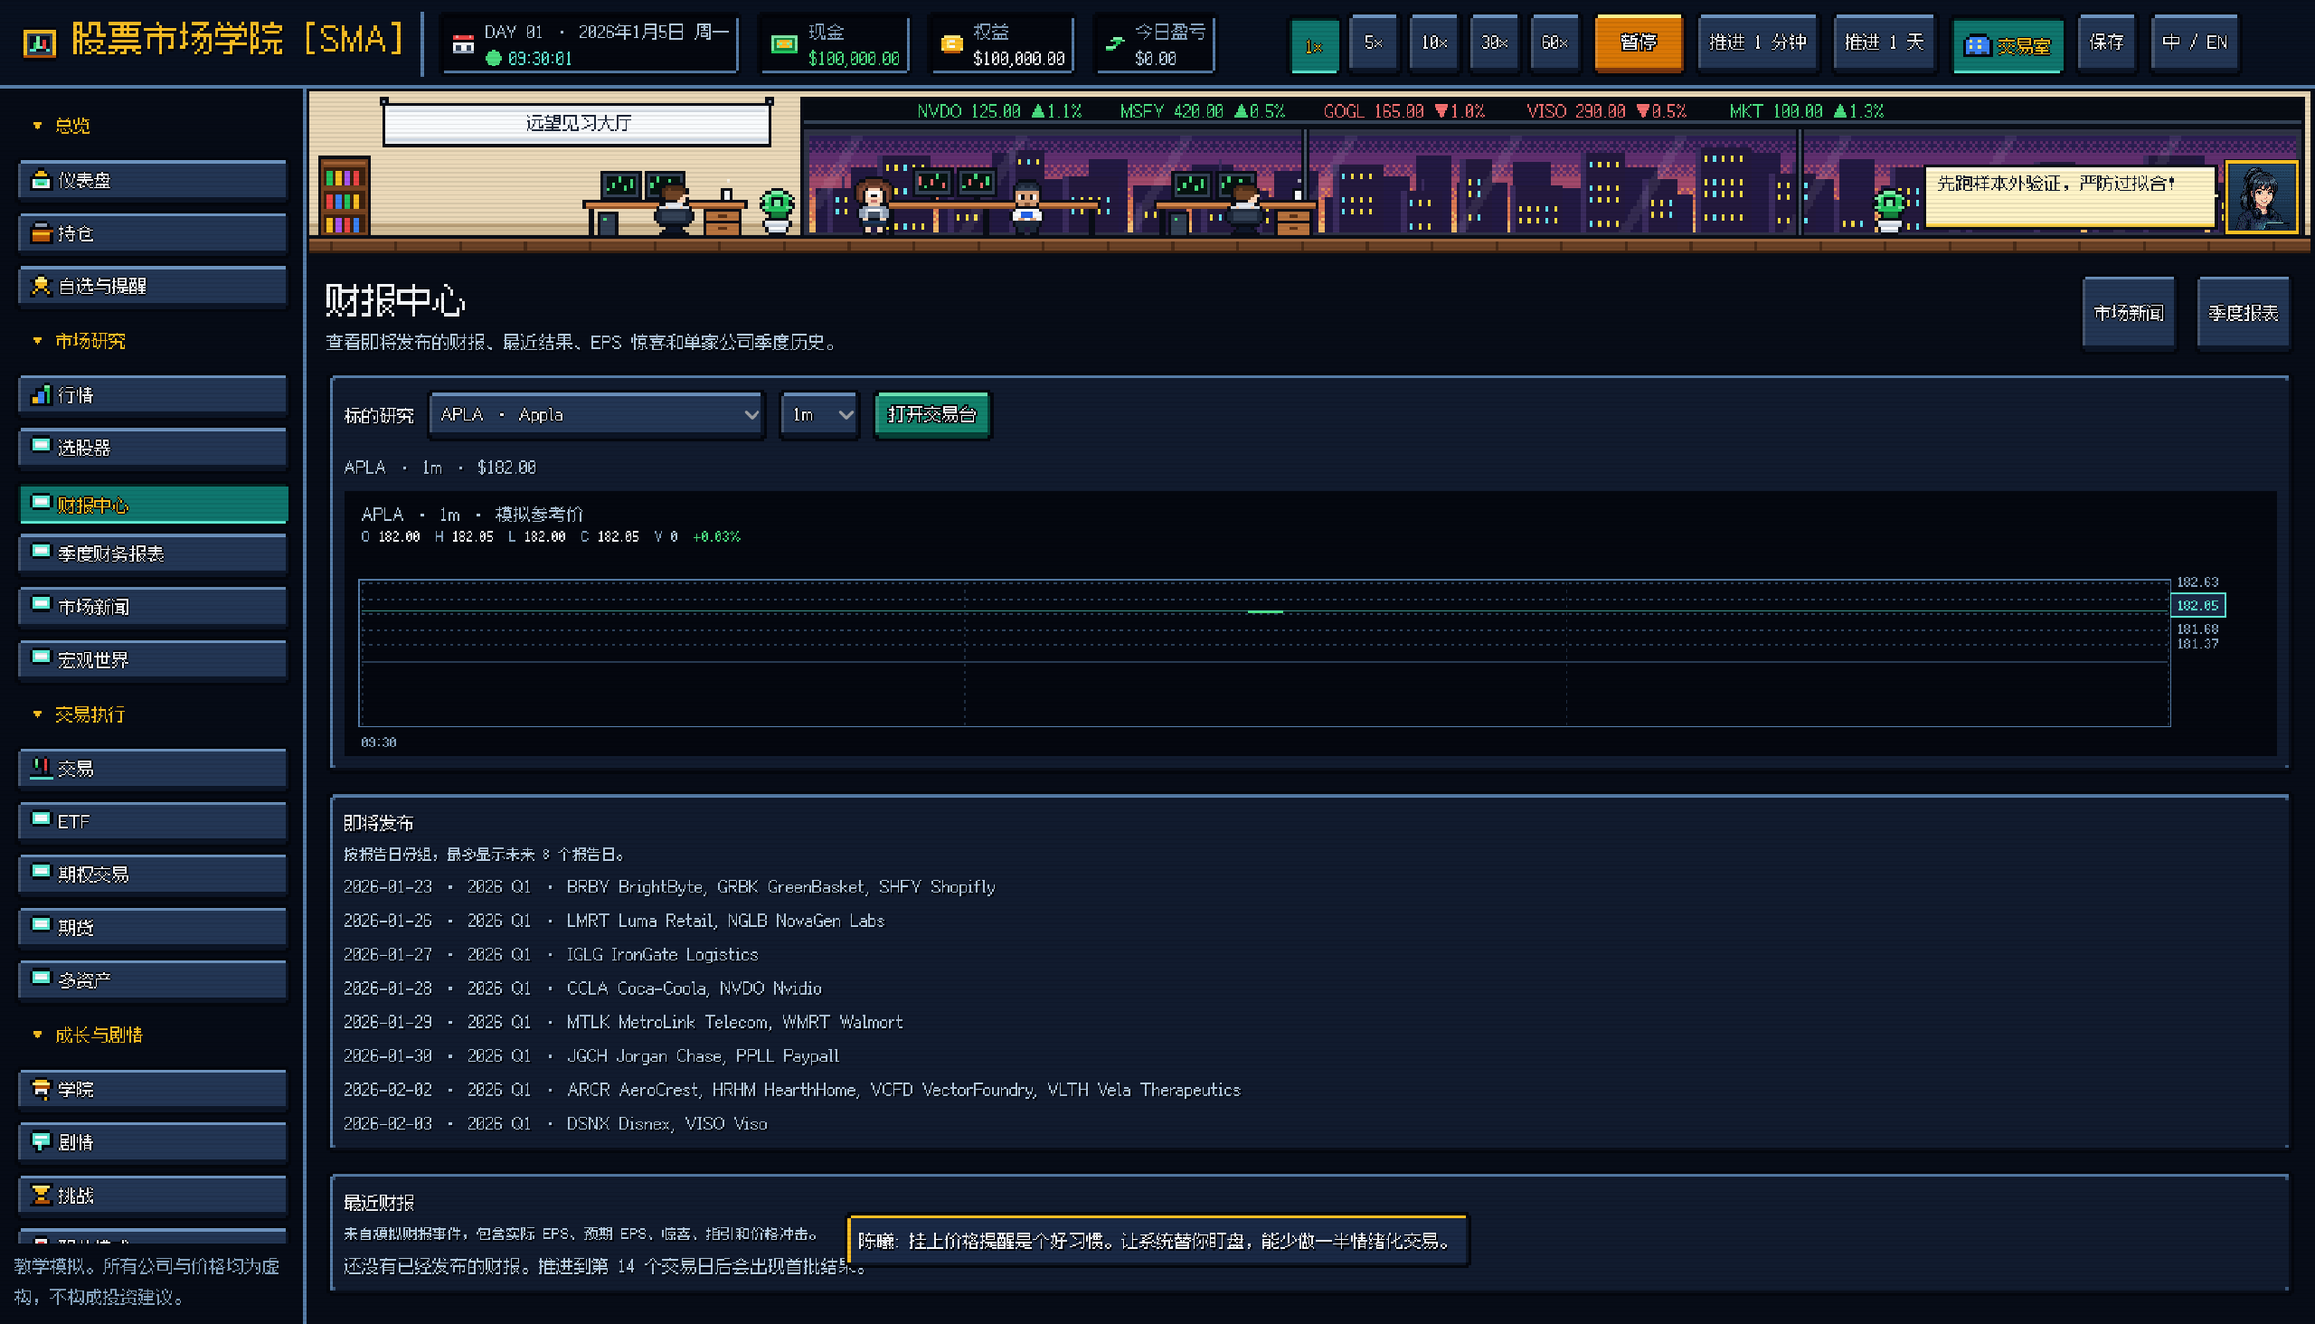
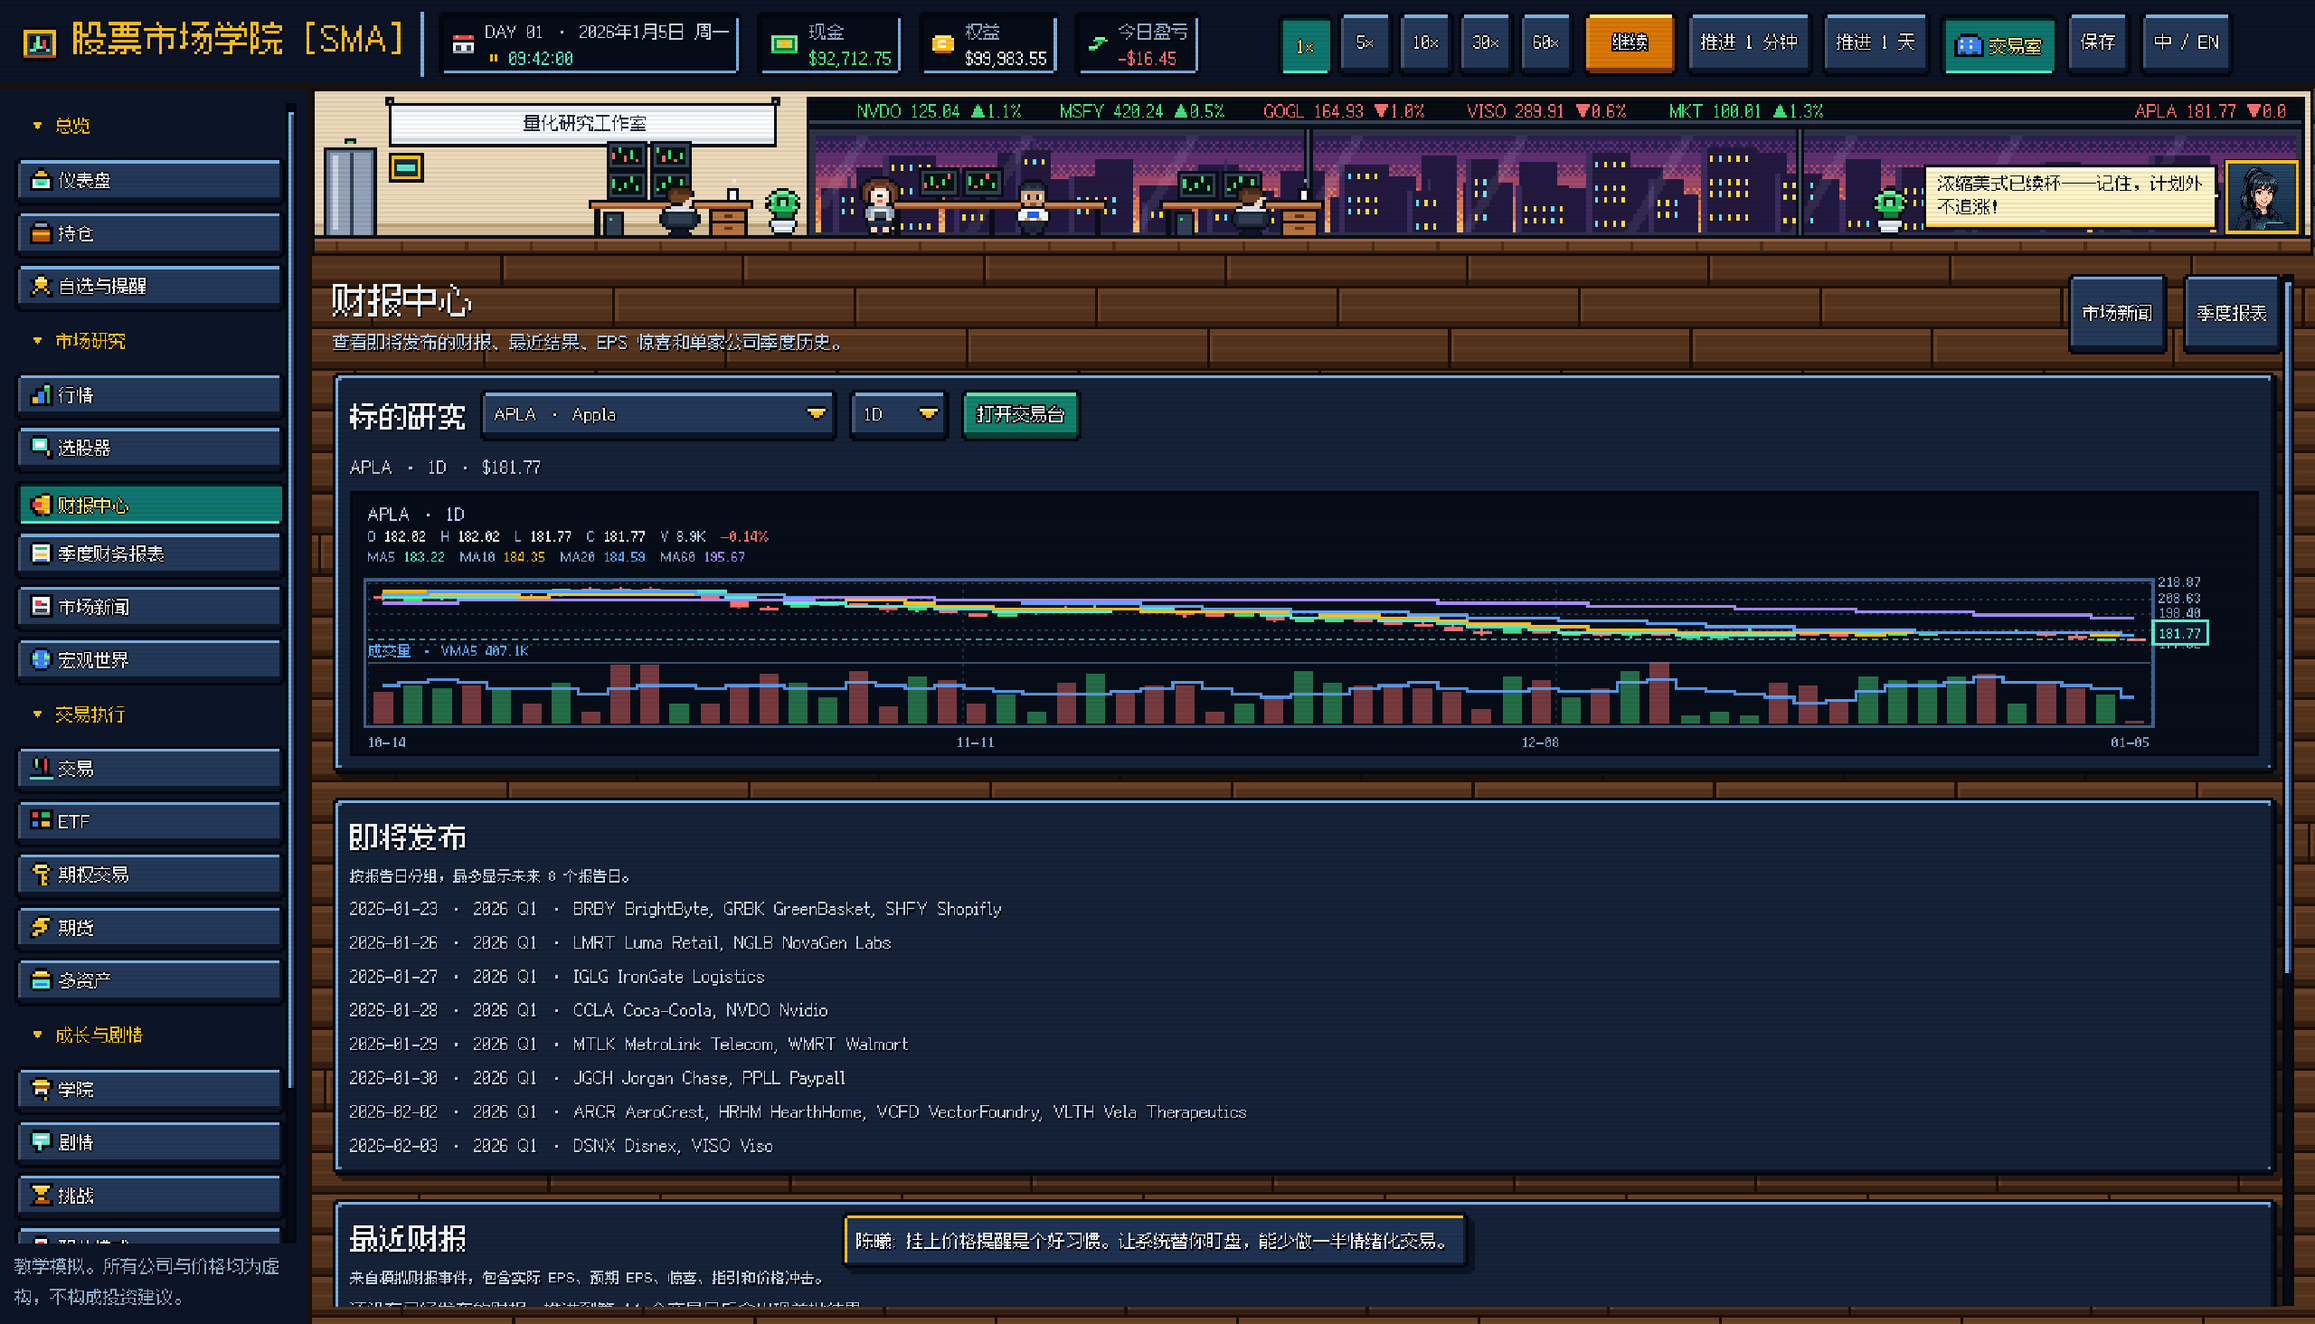
docs & build: sync README/CHANGELOG/screenshots, add SIL OFL font credit & Windows/macOS export presets (beta-11)

Changed region(s): [[0.0938, 0.0, 1.0, 1.0], [0.0, 0.3689, 0.0312, 0.5225], [0.0, 0.6455, 0.0312, 0.707]]

diff --git a/README.md b/README.md
@@ -1,12 +1,12 @@
 # Stock Market Academy / 远望交易学院
 
-一个使用 **Godot 4** 开发的单机金融教学与交易模拟游戏。玩家从个人投资者起步，在确定性的模拟市场中学习交易、风控、期权、期货、多资产、量化、基金管理和职业决策，并在一段完整的职场剧情中从学徒成长为基金掌舵人。
+一个使用 **Godot 4** 开发的 **16-Bit 经典像素风**单机金融教学与交易模拟游戏。融合「开罗式动态像素交易室」与「PC-98 复古 CRT 交易终端」，内置 16-bit FM 芯片音乐合成器、可点击互动像素大厅与阶梯像素 K 线图。玩家从个人投资者起步，在确定性的模拟市场中学习交易、风控、期权、期货、多资产、量化、基金管理和职业决策，并在一段完整的职场剧情中从学徒成长为基金掌舵人。
 
-- 当前版本：`beta-07`
+- 当前版本：`beta-11`（100% Full 16-Bit Pixel Edition）
 - 引擎：Godot `4.7+`（已在 `4.7.2` 测试）
-- 渲染：GL Compatibility
+- 渲染：GL Compatibility（全局整数像素倍率与 `NEAREST` 采样）
 - 语言：简体中文 / English
-- 平台：Windows（已导出）、macOS / Linux 可从源码运行
+- 平台：Windows / macOS（内置双平台导出预设）、Linux 可从源码运行
 - 仓库：<https://github.com/SGhunter666/Stock_Tutorial_Godot>
 - 原始项目：<https://github.com/SGhunter666/STOCK_Tutorial>
 
@@ -63,13 +63,25 @@
 
 ## 界面预览
 
-### 行情与行业热力图
+### 交易台（开罗橡木桌 × CRT 阶梯像素均线 · 默认 A+B 融合）
+
+![交易台](docs/screenshots/trade.png)
+
+### 开罗暖阳羊皮纸像素配色（纯 B 风）
+
+![开罗暖阳羊皮纸像素配色](docs/screenshots/kairosoft_light.png)
+
+### 仪表盘与可点击互动像素交易室
+
+![仪表盘](docs/screenshots/dashboard.png)
+
+### 行情大厅与行业热力图
 
 ![行情与行业热力图](docs/screenshots/market.png)
 
-### 交易台
+### 投资组合与 Bayer 抖动 CRT 净值曲线
 
-![交易台](docs/screenshots/trade.png)
+![投资组合](docs/screenshots/portfolio.png)
 
 ### 自选与提醒
 
@@ -528,13 +540,14 @@ build/windows/StockMarketAcademy_beta-03.1.exe
 ### 20. 设置
 
 - 语言：简体中文 / English。
-- 主题：深色 / 浅色。
-- 布局：新手 / 高级（高级布局显示更多指标）。
+- 像素主题配色：开罗木桌 × 终端像素（默认 A+B 融合）/ 开罗暖阳羊皮纸像素（纯 B 风）/ PC-98 暗夜像素终端（纯 A 风）。
+- 涨跌色板：国际（绿涨红跌）/ 中文 A 股（红涨绿跌）/ 色盲友好（蓝涨橙跌）。
+- 布局：新手 / 高级（高级布局采用紧凑间距并默认展开全部分组）。
 - 显示模式：窗口 / 全屏。
 - 窗口预设：`1280x720`、`1280x800`、`1366x768`、`1440x900`、`1600x900`、`1680x1050`、`1920x1080`、`1920x1200`、`2560x1440`、`2560x1600`、自动。
 - UI 缩放：自动 / `1.0` / `1.1` / `1.25`。
-- 音频：主音量、音乐音量、音效音量、静音。
-- 存档导出 / 导入（JSON 文件）。
+- 音频：主音量、16-bit FM 芯片音乐音量、音效音量、静音。
+- 多职业存档槽（1–4 槽独立切换）与 JSON 导出 / 导入。
 
 ---
 
@@ -571,7 +584,7 @@ godot --headless --path . --script res://tests/run_tests.gd
 期望输出类似：
 
 ```text
-ALL TESTS PASSED (30169 checks)
+ALL TESTS PASSED (31788 checks)
 ```
 
 ### 集成测试
@@ -607,27 +620,25 @@ macOS 官方应用包示例：
 
 ---
 
-## 导出 Windows 版本
+## 导出 Windows 与 macOS 版本
 
-导出预设名称：`Windows Desktop`
-
-```bash
-godot --headless --path . --export-release "Windows Desktop" build/windows/StockMarketAcademy_beta-03.1.exe
-```
-
-macOS 官方应用包：
+仓库已在 `export_presets.cfg` 中内置 **`Windows Desktop`** 与 **`macOS`** 双平台导出预设（像素图标均已锁定无损最近邻插值 `icon_interpolation = 0`）：
 
 ```bash
+# 导出 Windows 独立单文件 EXE
 /Applications/Godot.app/Contents/MacOS/Godot --headless --path . \
-  --export-release "Windows Desktop" build/windows/StockMarketAcademy_beta-03.1.exe
+  --export-release "Windows Desktop" build/windows/StockMarketAcademy_beta-11.exe
+
+# 导出 macOS Universal (.app 压缩包)
+/Applications/Godot.app/Contents/MacOS/Godot --headless --path . \
+  --export-release "macOS" build/macos/StockMarketAcademy_beta-11.zip
 ```
 
 注意事项：
 
-- 需要先在 Godot 中安装 Windows 导出模板。
+- 需要先在 Godot 中安装对应版本的导出模板（`4.7.2.stable`）。
 - `build/` 已加入 `.gitignore`，不会提交到仓库。
-- 当前版本号来自 `project.godot` 的 `config/version = "beta-03.1"`。
-- 导出文件约 122 MB。
+- 当前版本号来自 `project.godot` 的 `config/version = "beta-11"`。
 
 ---
 
@@ -660,7 +671,7 @@ macOS 官方应用包：
 │   ├── order_book.gd / margin.gd / indicators.gd
 │   └── ...
 ├── data/
-│   ├── companies.json      # 50 家公司
+│   ├── companies.json      # 57 家公司
 │   ├── academy/curriculum.json
 │   ├── stories/            # manifest、triggers、characters、16 段剧情
 │   └── history/            # catalog 与 4 个真实日线场景
@@ -752,13 +763,14 @@ macOS 官方应用包：
 - ETF 净值在交易日收盘时更新，盘中不做逐秒重估；ETF 价格提醒会在日切触发。
 - 价格提醒每 10 个模拟秒检查一次，不是逐 tick 检查。
 - 税务实验室仅覆盖英国 2026/27 教学估算，不构成税务建议。
-- 存档为本地单槽 JSON；切换设备需要手动导出/导入。
+- 存档为本地 4 槽位 JSON；切换设备可手动导出/导入。
 
 ---
 
-## 许可证
+## 许可证与第三方致谢
 
-本项目使用 [MIT License](LICENSE)。
+- **项目源码与原创像素资产**：采用 [MIT License](LICENSE)。
+- **内置点阵字体**：采用 TakWolf 开源的 [Fusion Pixel Font（缝合像素字体）](https://github.com/TakWolf/fusion-pixel-font)（`10px` 与 `12px` 比例简体中文版），遵循 [SIL Open Font License 1.1](assets/fonts/OFL.txt)。
 
 ---
 
@@ -770,6 +782,6 @@ macOS 官方应用包：
 
 ---
 
-- **版本**：`beta-03.1`
+- **版本**：`beta-11`
 - **引擎**：Godot 4.7+
 - **语言**：简体中文 / English

diff --git a/README.en.md b/README.en.md
@@ -1,12 +1,12 @@
 # Stock Market Academy
 
-A single-player financial education and trading simulation built with **Godot 4**. Players start as a retail investor in a deterministic simulated market, learn trading, risk, options, futures, multi-asset investing, quantitative research, fund management and career decision-making, and follow a complete story arc from apprentice to fund leader.
+A single-player **16-bit pixel-art** financial education and trading simulation built with **Godot 4** — fusing an interactive Kairosoft-inspired pixel trading floor with a crisp PC-98 CRT terminal, procedural 16-bit FM chiptune music, stepped pixel indicator curves, and segmented LED order-book depth. Players start as a retail investor in a deterministic simulated market, learn trading, risk, options, futures, multi-asset investing, quantitative research, fund management and career decision-making, and follow a complete story arc from apprentice to fund leader.
 
-- Version: `beta-07`
+- Version: `beta-11` (100% Full 16-Bit Pixel Edition)
 - Engine: Godot `4.7+` (tested on `4.7.2`)
-- Renderer: GL Compatibility
+- Renderer: GL Compatibility (integer bitmap font scaling & `NEAREST` filtering)
 - Languages: Simplified Chinese / English
-- Platforms: Windows (exported), macOS / Linux from source
+- Platforms: Windows & macOS (export presets included), Linux from source
 - Repository: <https://github.com/SGhunter666/Stock_Tutorial_Godot>
 - Original project: <https://github.com/SGhunter666/STOCK_Tutorial>
 
@@ -44,23 +44,35 @@ The default seed is `academy-2026` and the default starting cash is **USD 100,00
 
 ## Screenshots
 
-### Market and sector heatmap
-
-![Market and sector heatmap](docs/screenshots/market.png)
-
-### Trading desk
+### Trading Desk (Kairosoft Oak Desk × CRT Pixel Hybrid — Default Style A+B)
 
 ![Trading desk](docs/screenshots/trade.png)
 
-### Watchlist and alerts
+### Kairosoft Warm Cream Parchment Pixel Palette (Style B)
+
+![Kairosoft Warm Cream Pixel Palette](docs/screenshots/kairosoft_light.png)
+
+### Dashboard & Interactive Pixel Trading Floor
+
+![Dashboard](docs/screenshots/dashboard.png)
+
+### Market Board & Sector Heatmap
+
+![Market and sector heatmap](docs/screenshots/market.png)
+
+### Portfolio & Bayer-Dithered CRT Equity Curve
+
+![Portfolio](docs/screenshots/portfolio.png)
+
+### Watchlist & Price Alerts
 
 ![Watchlist and alerts](docs/screenshots/watchlist.png)
 
-### Stock screener
+### Stock Screener
 
 ![Stock screener](docs/screenshots/screener.png)
 
-### Earnings center
+### Earnings Center
 
 ![Earnings center](docs/screenshots/earnings.png)
 
@@ -424,13 +436,14 @@ Features: backtest, parameter optimization, factor research, regression and mach
 ### Settings
 
 - Language: Simplified Chinese / English.
-- Theme: dark / light.
+- Pixel Palette: Kairosoft Desk × CRT Pixel (A+B default) / Kairosoft Warm Cream Pixel (Style B) / PC-98 Midnight Pixel (Style A).
+- Color scheme: International (green up / red down), China A-share (red up / green down), or Colorblind-friendly (blue / orange).
 - Layout: beginner / advanced.
 - Display mode: windowed / fullscreen.
 - Window presets: `1280x720`, `1280x800`, `1366x768`, `1440x900`, `1600x900`, `1680x1050`, `1920x1080`, `1920x1200`, `2560x1440`, `2560x1600`, automatic.
 - UI scale: auto / `1.0` / `1.1` / `1.25`.
-- Audio: master, music, SFX and mute.
-- Save export/import as JSON.
+- Audio: master, 16-bit FM music, SFX and mute.
+- 4 independent career save slots & JSON export/import.
 
 ---
 
@@ -465,7 +478,7 @@ godot --headless --path . --script res://tests/run_tests.gd
 Expected output:
 
 ```text
-ALL TESTS PASSED (30169 checks)
+ALL TESTS PASSED (31788 checks)
 ```
 
 ### Integration test
@@ -497,18 +510,18 @@ macOS app bundle:
 
 ---
 
-## Export Windows Build
+## Export Windows & macOS Builds
 
-Preset name: `Windows Desktop`
+Presets `Windows Desktop` and `macOS` are configured in `export_presets.cfg` with nearest-neighbor pixel icon scaling (`icon_interpolation = 0`):
 
 ```bash
-godot --headless --path . --export-release "Windows Desktop" build/windows/StockMarketAcademy_beta-03.1.exe
+godot --headless --path . --export-release "Windows Desktop" build/windows/StockMarketAcademy_beta-11.exe
+godot --headless --path . --export-release "macOS" build/macos/StockMarketAcademy_beta-11.zip
 ```
 
-- Windows export templates must be installed.
+- Godot `4.7.2.stable` export templates must be installed.
 - `build/` is ignored by Git.
-- Version comes from `project.godot` (`beta-03.1`).
-- The exported executable is about 122 MB.
+- Version comes from `project.godot` (`beta-11`).
 
 ---
 
@@ -590,13 +603,14 @@ Code layers:
 - ETF NAV updates at session close; ETF alerts fire at the close.
 - Price alerts are checked every 10 simulated seconds, not every tick.
 - The tax lab covers UK 2026/27 estimates only.
-- Saves are local single-slot JSON; use export/import to move them.
+- Saves are local 4-slot JSON files; use export/import to move them between machines.
 
 ---
 
-## License
+## License & Credits
 
-This project is released under the [MIT License](LICENSE).
+- **Source code & original pixel assets:** [MIT License](LICENSE).
+- **Bundled bitmap fonts:** [Fusion Pixel Font](https://github.com/TakWolf/fusion-pixel-font) (`10px` & `12px` proportional Simplified Chinese) by TakWolf, licensed under the [SIL Open Font License 1.1](assets/fonts/OFL.txt).
 
 ---
 
@@ -608,6 +622,6 @@ This project is released under the [MIT License](LICENSE).
 
 ---
 
-- **Version:** `beta-03.1`
+- **Version:** `beta-11`
 - **Engine:** Godot 4.7+
 - **Languages:** Simplified Chinese / English

diff --git a/CHANGELOG.md b/CHANGELOG.md
@@ -1,5 +1,22 @@
 # Changelog
 
+## beta-11
+
+- **100% 全游戏纯像素化重构（Full 16-Bit Pixel Edition）**：移除全部残留的非像素矢量降级分支，统一为三套可随时切换的纯像素配色——**「开罗木桌 × 终端像素（默认 A+B 融合）」**、**「开罗暖阳羊皮纸像素（纯 B 风）」**与**「PC-98 暗夜像素终端（纯 A 风）」**。
+- **全套 CRT 像素化图表与微缩组件**：将净值/回撤曲线（`SmaLineChart`）、期权到期损益图（`SmaPayoffChart`）、K 线教学拆解图（`SmaCandleIllustration`）与 20 日行情微缩图（`SmaSparkline`）统一升级为内嵌暗色 CRT 显像管边框、`4×4` Bayer 有序抖动填充与 `2px` 直角阶梯像素曲线。
+- **28 个手工像素导航图标、立体像素控件与像素桌面图标**：补齐侧边栏全部 28 个功能页专属 16-bit 彩色像素图标；新增 `4px` 硬像素投影切角卡片、叠层行情行砖、`8px` 分段式发光像素进度条、像素滚动条、像素下拉三角与微调双箭头；解锁 `20px`（`2×`）与 `30px`（`3×`）整数倍大颗粒点阵字阶；重绘 `64×64` 原生像素桌面图标（`assets/icon.png` / `icon.ico`）。
+
+## beta-10
+
+- **16-Bit PC-98 FM 芯片音乐合成器与街机跳字动效**：程序化音频引擎（`app/audio.gd`）支持方波（Pulse）、三角波（Triangle）与双算子 FM 电钢音色，随盘中交易、学院/剧情静修与黑五/追保危机动态切换 16-bit 芯片配乐；新增 `SmaPixelFx` 成交/经验/荣誉街机像素跳字飘窗与金币星火粒子。
+- **可点击互动像素交易大厅（4 大热区）**：顶部像素交易室支持点击右上角导师头像打开**实时账户与风控体检弹窗**、点击左侧书架/金奖牌打开**远望像素荣誉墙与成就陈列柜**、点击顶部滚动 LED 跑马灯直跳对应标的交易台、点击办公桌热咖啡杯触发盘中风控幽默语录与粒子彩蛋。
+- **阶梯像素均线与分段式 LED 挂单深度格**：K 线图支持 `阶梯PX / StepPX` 开关切换无重叠 `2px` 阶梯均线/布林带、描边像素买卖箭头与点阵十字准星；6 档买卖挂单簿升级为 `6px` 独立灯块 + 高亮灯头的街机 LED 深度格。
+
+## beta-08 & beta-09
+
+- **内置开源点阵字体与 9-Slice 像素架构**：引入 **Fusion Pixel 10px / 12px** 点阵中英文字体（SIL OFL 1.1），关闭抗锯齿与 MSDF 并锁定整数像素倍率；构建 `SmaPixelArt` 9-Slice 切角窗体、立体街机买卖键、公司行业像素徽章与全屏常驻可折叠像素交易室。
+- **125 屏视觉自检与 PC-98 立绘重采样**：将全部 7 位角色立绘重采样至 `96×128` 16-bit 像素网格并加入 `4×4` Bayer 抖动底纹；按当前功能页智能联动右上角值班导师头像与专业叮嘱；升级像素单选框、复选框、推子滑块与金边切角模态弹窗。
+
 ## beta-07
 
 - **A+B 融合经典像素风升级（Retro Pixel Hybrid）**：默认启用「PC-98 复古终端 + 开罗感像素交易室」融合主题（可在设置中随时与现代深色/浅色主题切换）。
